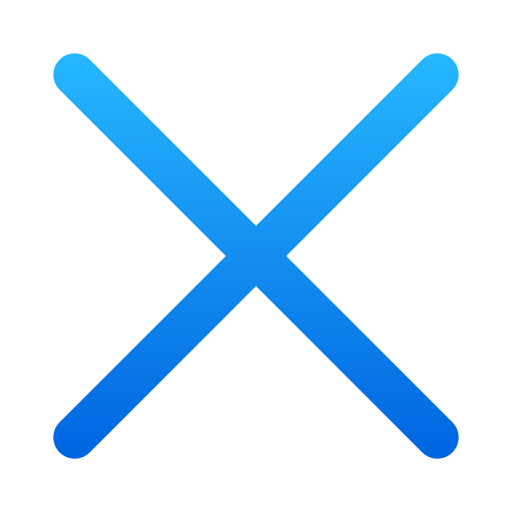
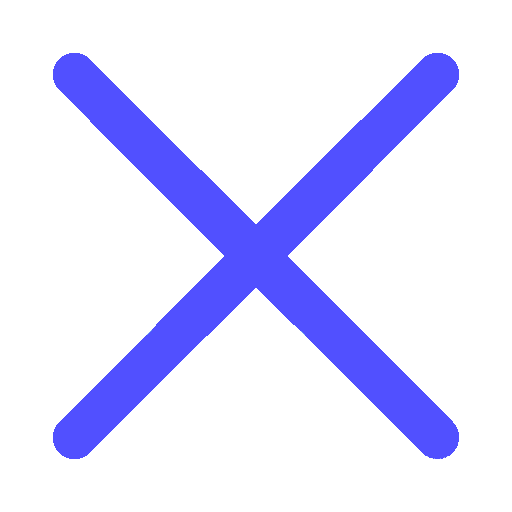
XB-26: fix colors and sign up bugs

Changed region(s): [[0.0938, 0.0938, 0.9062, 0.9062]]

diff --git a/skillsharing/widgets/ProfileLeftColumn/ProfileLeftColumn.tsx b/skillsharing/widgets/ProfileLeftColumn/ProfileLeftColumn.tsx
@@ -1,7 +1,10 @@
 import React, { useEffect } from 'react';
 import { StatisticItem } from './ProfileLeftColumnTypes';
 import { CapitalizeString } from '../../shared/Functions/FormatStrings';
-import { PREFERRED_FORMAT_TRANSLATION } from '../../shared/Consts/Translations';
+import {
+    PREFERRED_FORMAT_TRANSLATION,
+    SKILL_LEVELS_IN_RUSSIAN,
+} from '../../shared/Consts/Translations';
 import './ProfileLeftColumn.scss';
 import { CommunicationFormat, Skill } from '../../shared/Consts/Interfaces';
 import { AVATAR_URL } from '../../shared/Consts/URLS';
@@ -91,7 +94,7 @@ const ProfileLeftColumn: React.FC = () => {
                                 >
                                     <div
                                         className={`profile-tags-array__tag profile-tags-array__tag_${skill.level}`}
-                                        title={`${CapitalizeString(skill.level)}`}
+                                        title={`${CapitalizeString(SKILL_LEVELS_IN_RUSSIAN[skill.level])}`}
                                     >
                                         {skill.name}
                                     </div>
@@ -115,7 +118,7 @@ const ProfileLeftColumn: React.FC = () => {
                                     >
                                         <div
                                             className={`profile-to-learn-array__tag profile-to-learn-array__tag_${skill.level}`}
-                                            title={`${CapitalizeString(skill.level)}`}
+                                            title={`${CapitalizeString(SKILL_LEVELS_IN_RUSSIAN[skill.level])}`}
                                             key={skill.name}
                                         >
                                             {skill.name}

diff --git a/skillsharing/widgets/ChatHeader/ChatHeader.tsx b/skillsharing/widgets/ChatHeader/ChatHeader.tsx
@@ -200,6 +200,7 @@ const ChatHeader: React.FC = () => {
                                     <img
                                         className="chat-header-controls__img chat-header-controls__edit"
                                         src="/shared/pen.png"
+                                        title="Изменить сообщение"
                                         alt="Изменить сообщение"
                                         onClick={() => {
                                             dispatch(editMessage());
@@ -210,6 +211,7 @@ const ChatHeader: React.FC = () => {
                                     className="chat-header-controls__img chat-header-controls__copy"
                                     src="/ChatPage/copy.png"
                                     alt="Копировать сообщение"
+                                    title="Копировать сообщение"
                                     onClick={() => {
                                         navigator.clipboard.writeText(
                                             selectedMessages[0].payload || '',
@@ -227,6 +229,7 @@ const ChatHeader: React.FC = () => {
                                     id="delete-messages"
                                     className="chat-header-controls__img chat-header-controls__delete"
                                     src="/shared/delete.png"
+                                    title="Удалить сообщения"
                                     alt="Удалить сообщения"
                                     onClick={() => dispatch(showDeletingModal())}
                                 />

diff --git a/skillsharing/widgets/ChatHeader/ChatHeader.scss b/skillsharing/widgets/ChatHeader/ChatHeader.scss
@@ -180,8 +180,8 @@
     &-remove-selection {
         display: flex;
         align-items: center;
-        gap: 18px;
-        color: #1c2fd1c2;
+        gap: 10px;
+        color: #5b5aff;
         font-size: 21px;
         font-family: 'Inter';
 
@@ -201,6 +201,11 @@
             width: 25px;
             height: 25px;
             cursor: pointer;
+            transition-duration: 0.2s;
+
+            &:hover {
+                transform: scale(1.05);
+            }
         }
     }
 }

diff --git a/skillsharing/app/slices/SignUpSlice.tsx b/skillsharing/app/slices/SignUpSlice.tsx
@@ -269,7 +269,9 @@ export const signupSlice = createSlice({
                 ...state.skills_to_share.slice(index + 1),
             ];
 
-            state.skillsToShareError = ATLEAST_ONE_SKILL;
+            if (state.skills_to_share.length === 0) {
+                state.skillsToShareError = ATLEAST_ONE_SKILL;
+            }
         },
         editedSkillToShare: (state: SignUpState, action: PayloadAction<[number, string]>) => {
             const [index, skillName] = action.payload;

diff --git a/skillsharing/shared/Consts/Translations.tsx b/skillsharing/shared/Consts/Translations.tsx
@@ -7,3 +7,9 @@ export const PREFERRED_FORMAT_TRANSLATION: Record<CommunicationFormat, string> =
 };
 
 export const PREFERRED_FORMAT_TYPES: CommunicationFormat[] = ['text', 'video', 'voice'];
+
+export const SKILL_LEVELS_IN_RUSSIAN = {
+    advanced: 'продвинутый',
+    intermediate: 'средний',
+    beginner: 'начинающий',
+};
